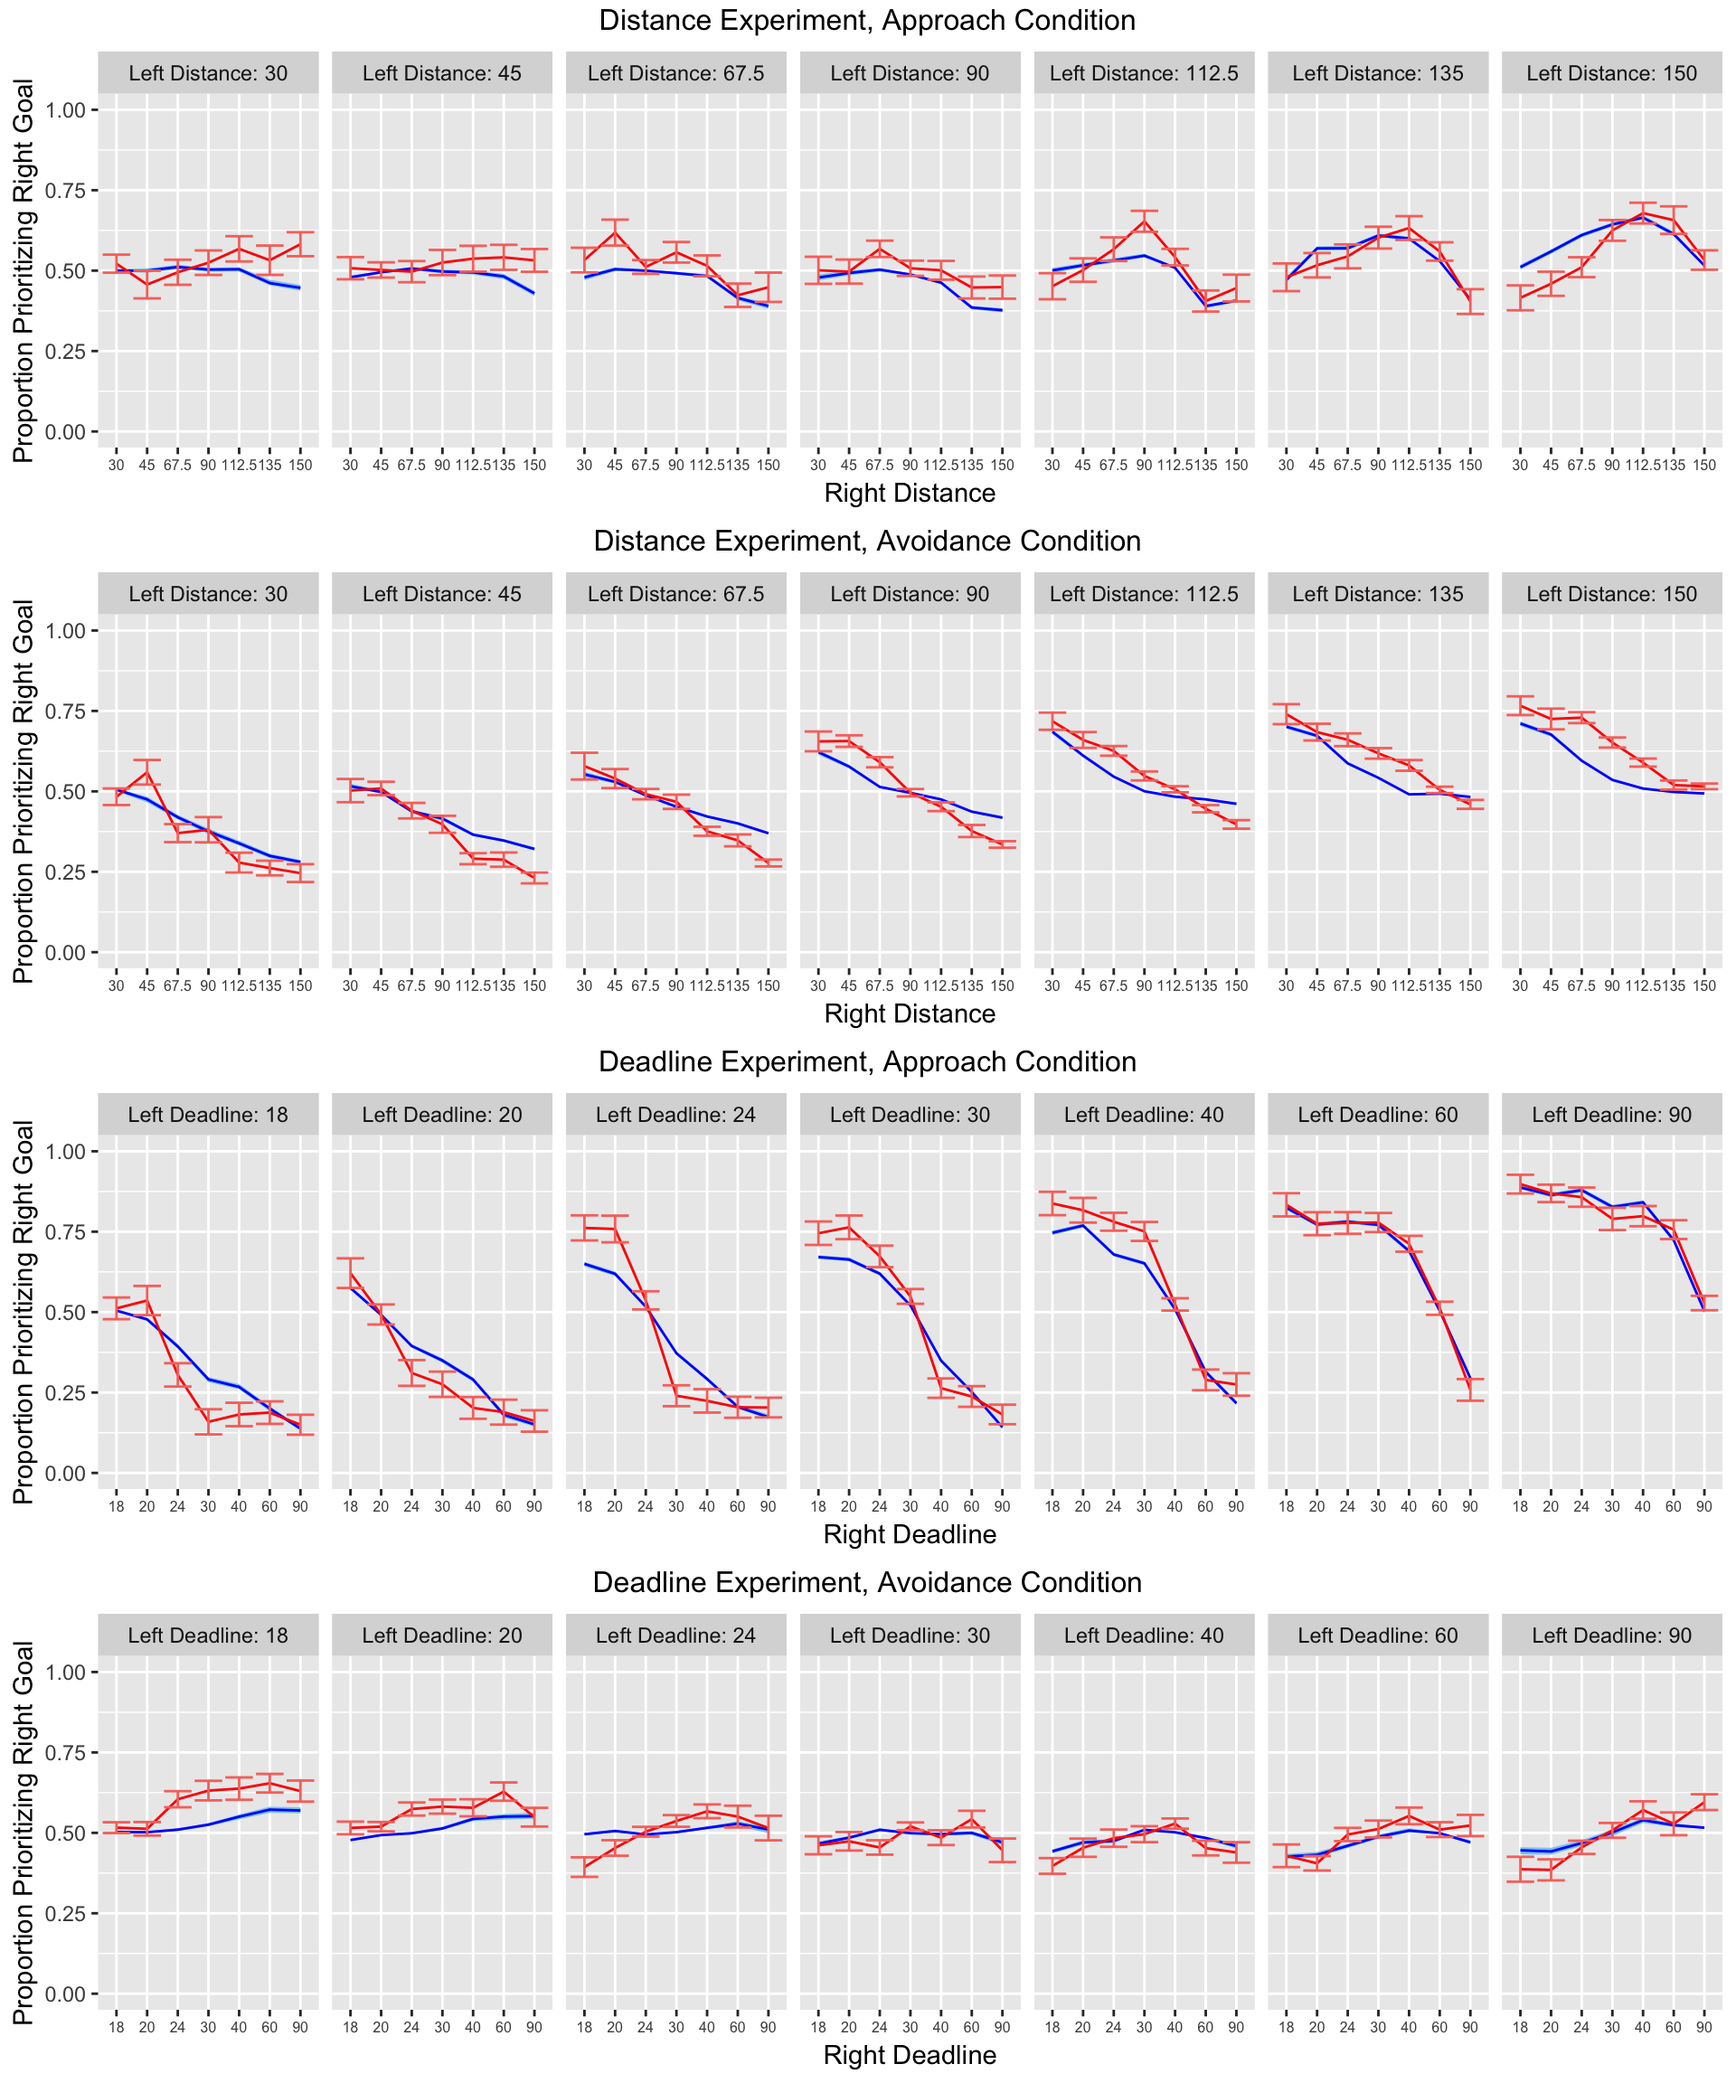
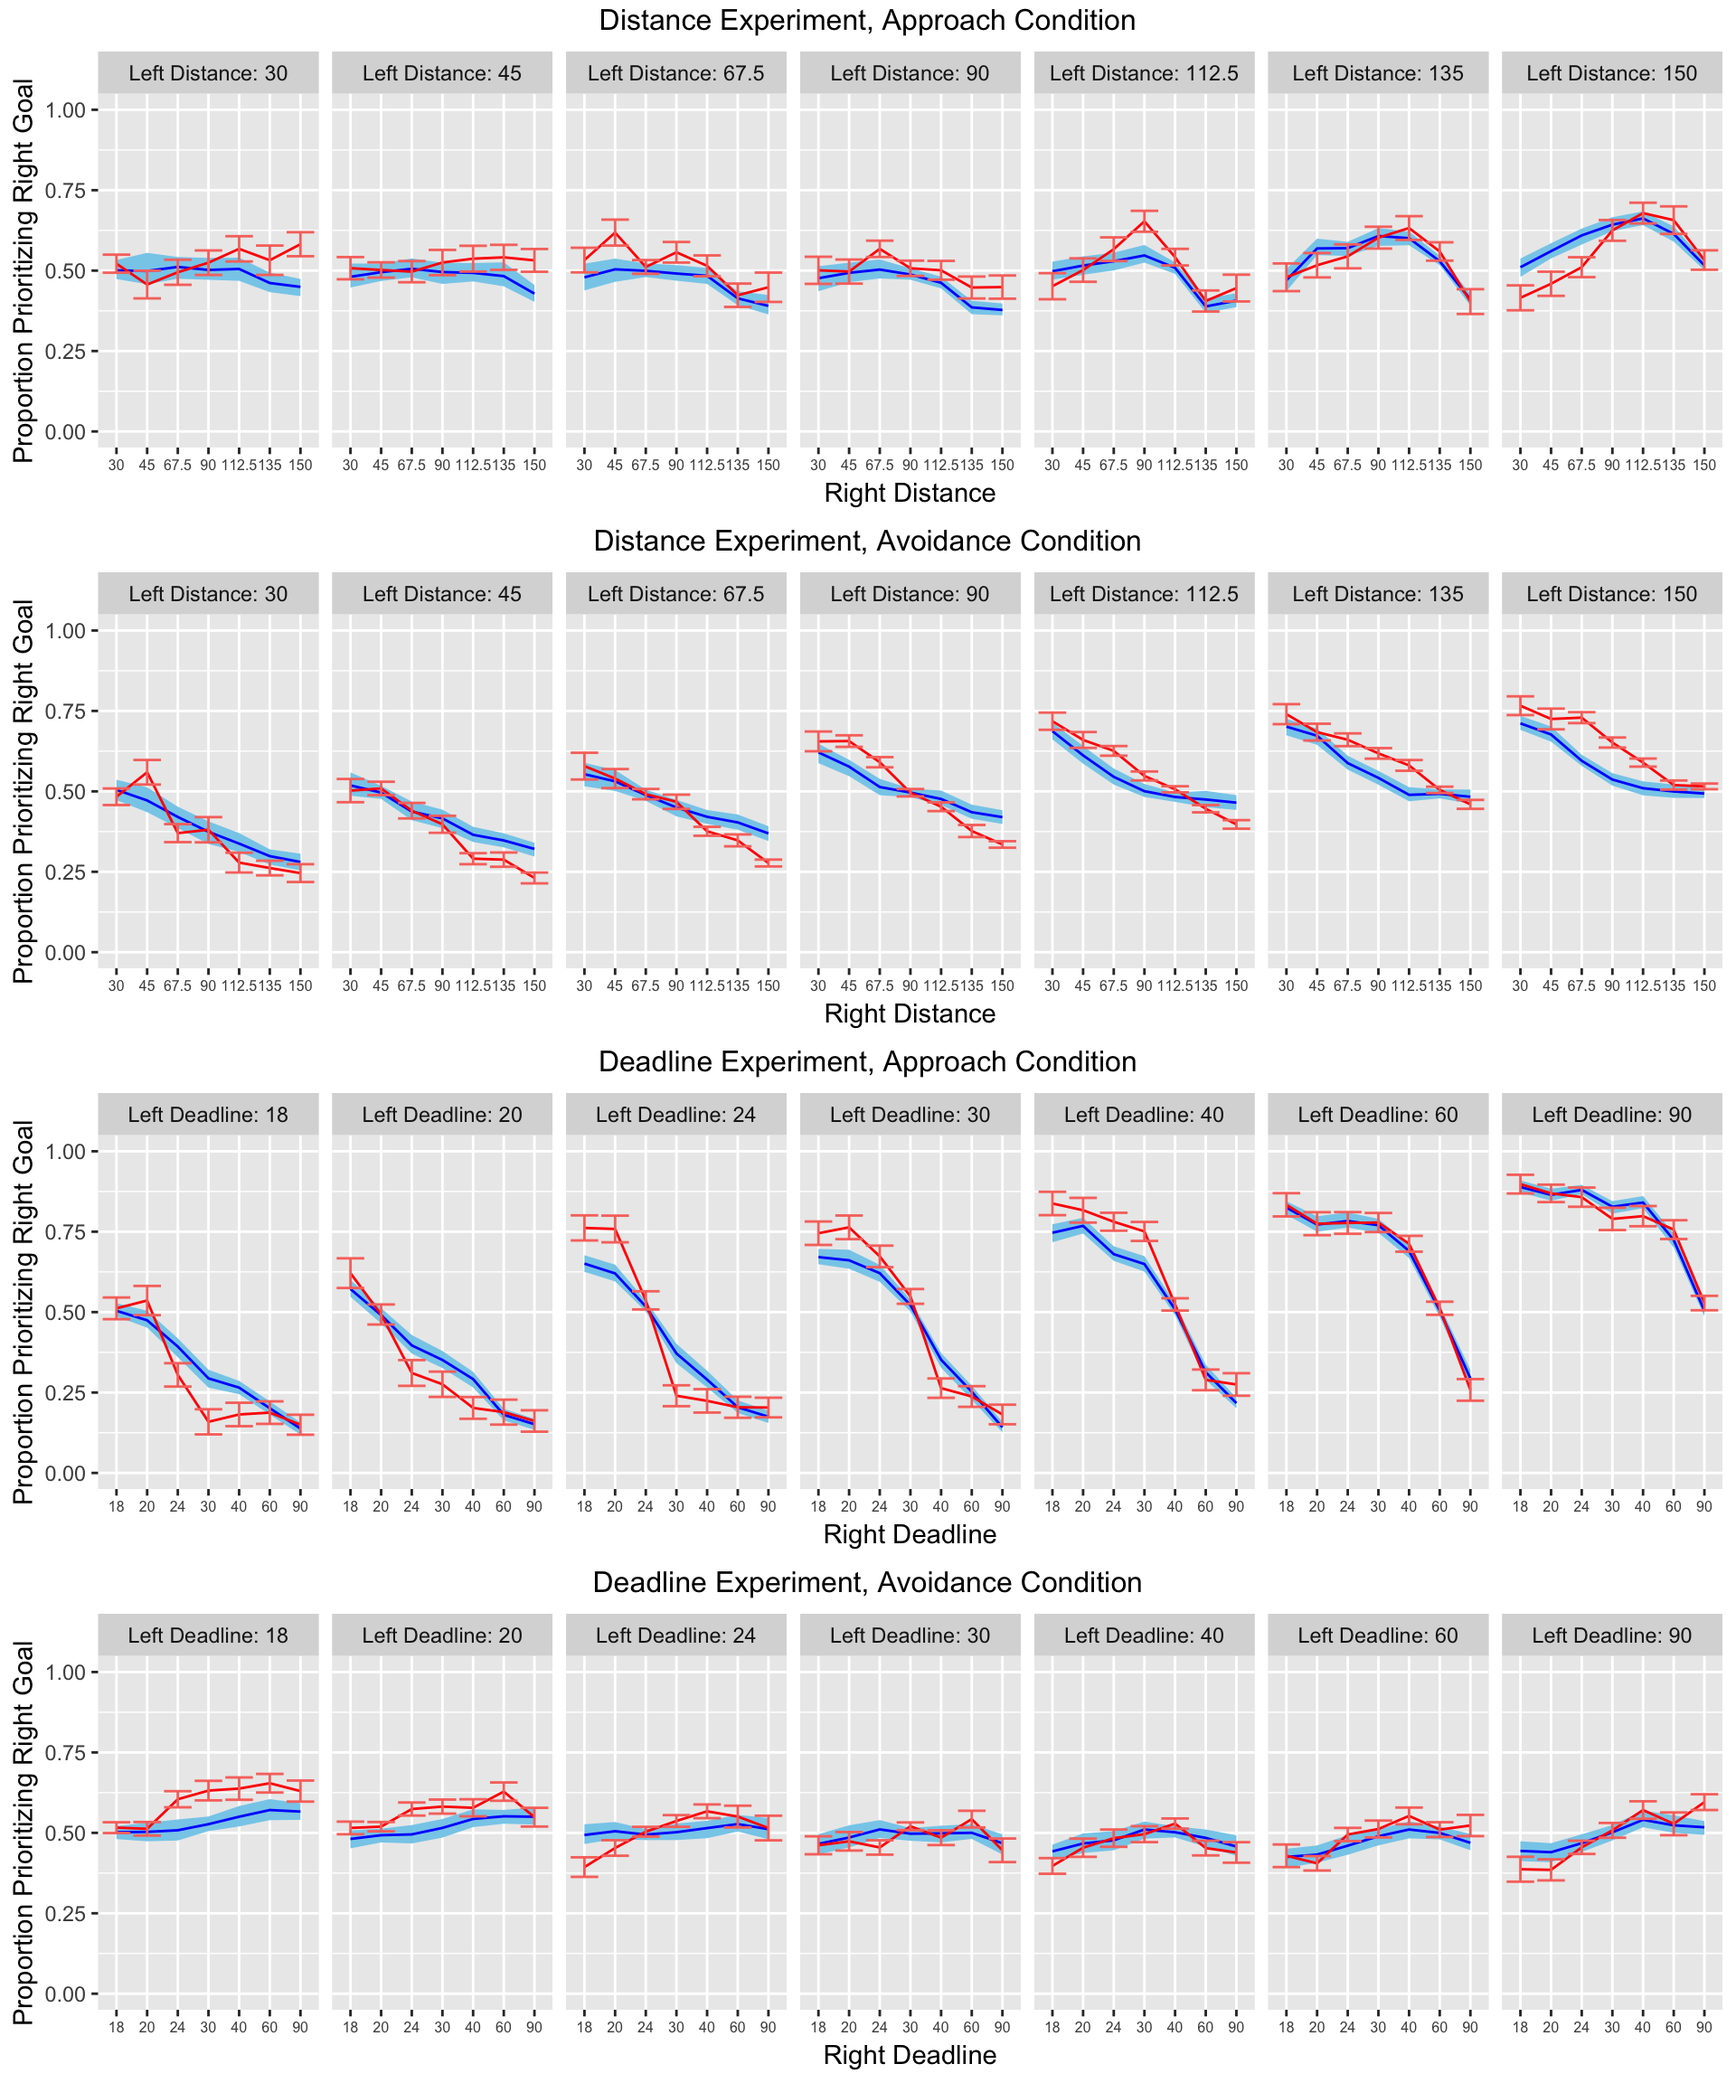
making code to run multiple models

diff --git a/docs/predictives.html b/docs/predictives.html
@@ -328,13 +328,12 @@ div.section {
 </div>
 
 
-<p><strong>Last updated:</strong> 2018-08-08</p>
+<p><strong>Last updated:</strong> 2018-08-21</p>
 <strong>workflowr checks:</strong> <small>(Click a bullet for more information)</small>
 <ul>
 <li>
 <details>
-<p><summary> <strong style="color:blue;">✔</strong> <strong>R Markdown file:</strong> up-to-date </summary></p>
-<p>Great! Since the R Markdown file has been committed to the Git repository, you know the exact version of the code that produced these results.</p>
+<p><summary> <strong style="color:red;">✖</strong> <strong>R Markdown file:</strong> uncommitted changes </summary> The R Markdown file has unstaged changes. To know which version of the R Markdown file created these results, you’ll want to first commit it to the Git repo. If you’re still working on the analysis, you can ignore this warning. When you’re finished, you can run <code>wflow_publish</code> to commit the R Markdown file and build the HTML.</p>
 </details>
 </li>
 <li>
@@ -357,19 +356,20 @@ div.section {
 </li>
 <li>
 <details>
-<p><summary> <strong style="color:blue;">✔</strong> <strong>Repository version:</strong> <a href="https://github.com/ballardtj/gen_arch/tree/53b1f35ca715033a69c7af4292afe97f95006c8d" target="_blank">53b1f35</a> </summary></p>
+<p><summary> <strong style="color:blue;">✔</strong> <strong>Repository version:</strong> <a href="https://github.com/ballardtj/gen_arch/tree/2aa5ed887ec6513be70e16d64be5896f6b79fefc" target="_blank">2aa5ed8</a> </summary></p>
 Great! You are using Git for version control. Tracking code development and connecting the code version to the results is critical for reproducibility. The version displayed above was the version of the Git repository at the time these results were generated. <br><br> Note that you need to be careful to ensure that all relevant files for the analysis have been committed to Git prior to generating the results (you can use <code>wflow_publish</code> or <code>wflow_git_commit</code>). workflowr only checks the R Markdown file, but you know if there are other scripts or data files that it depends on. Below is the status of the Git repository when the results were generated:
 <pre><code>
 Ignored files:
     Ignored:    .DS_Store
     Ignored:    .Rhistory
     Ignored:    .Rproj.user/
+    Ignored:    analysis/figure/
     Ignored:    data/.DS_Store
     Ignored:    data/derived/.DS_Store
 
 Unstaged changes:
-    Modified:   data/derived/ap_opt_fit.RData
-    Modified:   data/derived/av_opt_fit.RData
+    Modified:   analysis/predictives.Rmd
+    Modified:   model/4_collect_samples.sh
 
 </code></pre>
 Note that any generated files, e.g. HTML, png, CSS, etc., are not included in this status report because it is ok for generated content to have uncommitted changes.
@@ -400,6 +400,23 @@ Message
 </tr>
 </thead>
 <tbody>
+<tr>
+<td style="text-align:left;">
+html
+</td>
+<td style="text-align:left;">
+<a href="https://cdn.rawgit.com/ballardtj/gen_arch/37fd55bf5666dcfd50dbf74f98840e876cee98cb/docs/predictives.html" target="_blank">37fd55b</a>
+</td>
+<td style="text-align:left;">
+ballardtj
+</td>
+<td style="text-align:left;">
+2018-08-08
+</td>
+<td style="text-align:left;">
+Build site.
+</td>
+</tr>
 <tr>
 <td style="text-align:left;">
 html
@@ -681,6 +698,17 @@ Date
 </tr>
 </thead>
 <tbody>
+<tr>
+<td style="text-align:left;">
+<a href="https://github.com/ballardtj/gen_arch/blob/37fd55bf5666dcfd50dbf74f98840e876cee98cb/docs/figure/predictives.Rmd/optimal_fits-1.png" target="_blank">37fd55b</a>
+</td>
+<td style="text-align:left;">
+ballardtj
+</td>
+<td style="text-align:left;">
+2018-08-08
+</td>
+</tr>
 <tr>
 <td style="text-align:left;">
 <a href="https://github.com/ballardtj/gen_arch/blob/8131ec052e1fb24f2a97d5a627a157fd57f69f6e/docs/figure/predictives.Rmd/optimal_fits-1.png" target="_blank">8131ec0</a>
